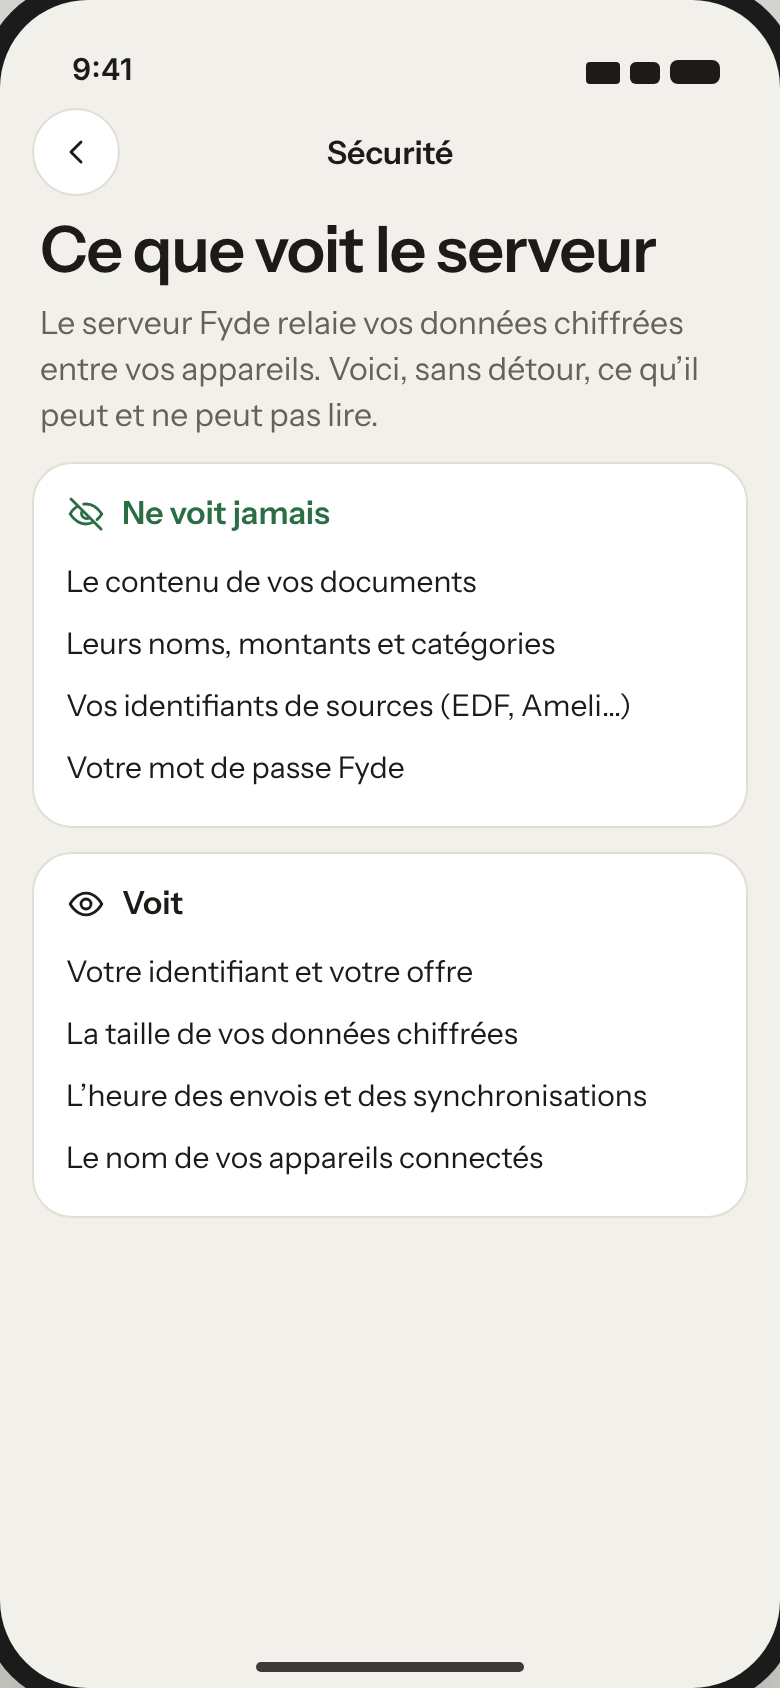
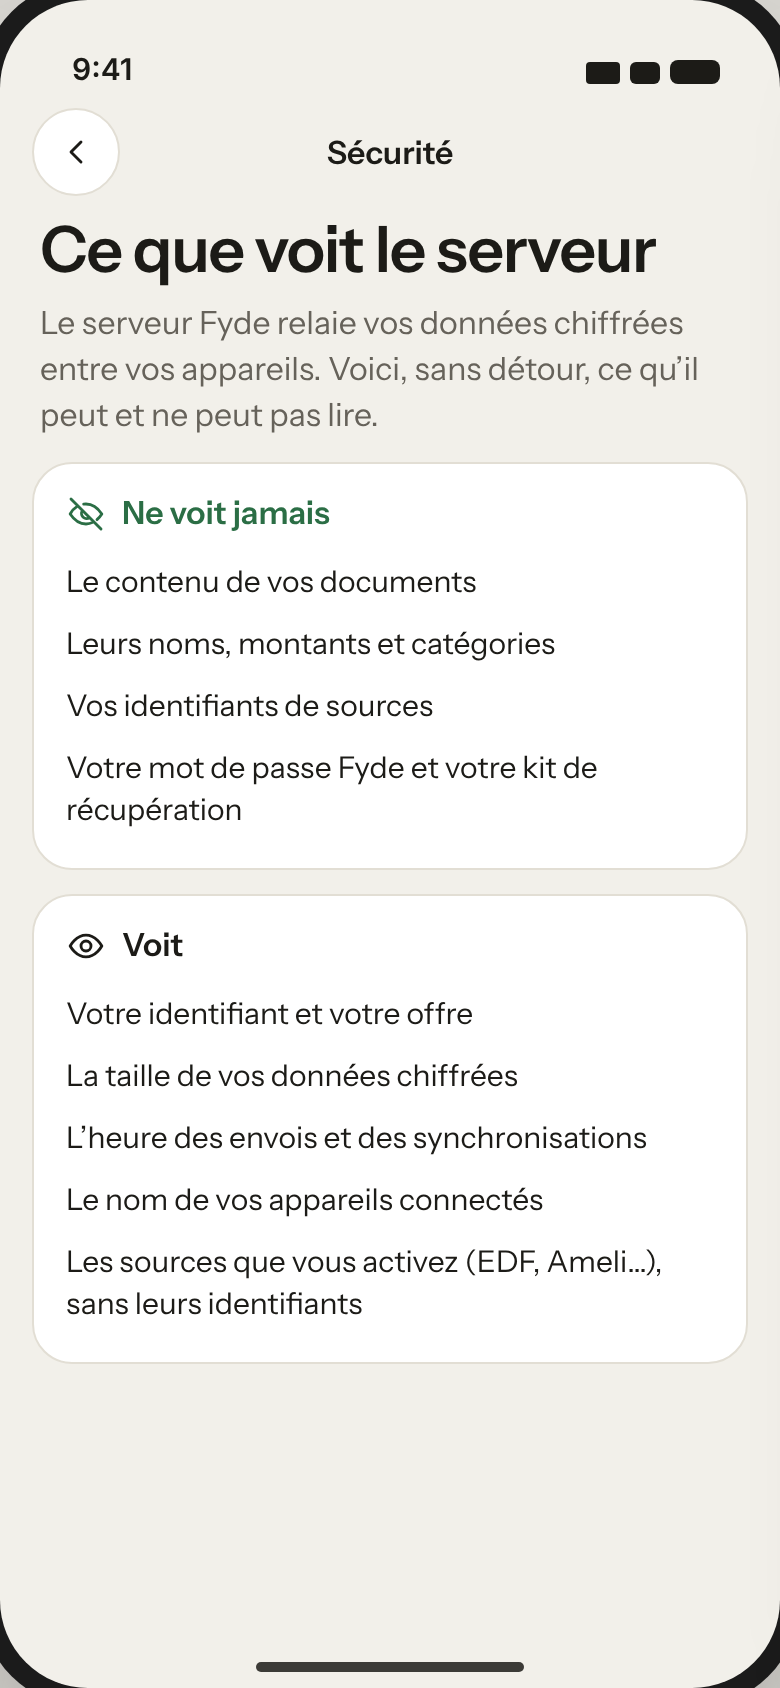
Tell the user the server knows which sources they enable
M3 listed source credentials under "Ne voit jamais" and said nothing of
the sources themselves. The credentials do stay encrypted (installScript
is an encrypted changelog event), but enabling and disabling a script go
to the server by its id, and fetchScript and fetchIcon ask for it by id
too, so the server knows a user has, say, Ameli or a bank. M3 now lists
"les sources que vous activez, sans leurs identifiants" under "Voit",
adds the recovery kit under "Ne voit jamais", and M2's row and the spec
follow. The spec's rule: anything sent in clear is listed under Voit.

Claude-Session: https://claude.ai/code/session_01NXG1oymEkKvPrzTrPTtgGc

diff --git a/design/assets/mockups/core.html b/design/assets/mockups/core.html
@@ -275,7 +275,7 @@
   <div class="trow"><svg class="ic" style="color:var(--warn)"><use href="#i-key"/></svg><div class="grow"><p style="font-weight:600">Kit de récupération</p><p style="font-size:13px;color:var(--muted)">À créer — votre seule issue si vous oubliez le mot de passe</p></div><svg class="ic" style="color:var(--muted)"><use href="#i-chev-r"/></svg></div>
   <div class="trow"><svg class="ic" style="color:var(--primary)"><use href="#i-pencil"/></svg><div class="grow"><p style="font-weight:600">Changer le mot de passe</p><p style="font-size:13px;color:var(--muted)">Vos appareils restent connectés</p></div><svg class="ic" style="color:var(--muted)"><use href="#i-chev-r"/></svg></div>
   <div class="trow"><svg class="ic" style="color:var(--primary)"><use href="#i-check-c"/></svg><div class="grow"><p style="font-weight:600">Vérifier mon mot de passe</p><p style="font-size:13px;color:var(--muted)">Dernière vérification : jamais</p></div><svg class="ic" style="color:var(--muted)"><use href="#i-chev-r"/></svg></div>
-  <div class="trow"><svg class="ic" style="color:var(--primary)"><use href="#i-server"/></svg><div class="grow"><p style="font-weight:600">Ce que voit le serveur</p><p style="font-size:13px;color:var(--muted)">Tailles, dates d’envoi, nombre d’appareils</p></div><svg class="ic" style="color:var(--muted)"><use href="#i-chev-r"/></svg></div>
+  <div class="trow"><svg class="ic" style="color:var(--primary)"><use href="#i-server"/></svg><div class="grow"><p style="font-weight:600">Ce que voit le serveur</p><p style="font-size:13px;color:var(--muted)">Sources activées, tailles, dates d’envoi</p></div><svg class="ic" style="color:var(--muted)"><use href="#i-chev-r"/></svg></div>
  </div>
  <div class="homebar"></div>
 </div></div>
@@ -297,7 +297,7 @@
   <div class="trow"><svg class="ic" style="color:var(--warn)"><use href="#i-key"/></svg><div class="grow"><p style="font-weight:600">Kit de récupération</p><p style="font-size:13px;color:var(--muted)">À créer — votre seule issue si vous oubliez le mot de passe</p></div><svg class="ic" style="color:var(--muted)"><use href="#i-chev-r"/></svg></div>
   <div class="trow"><svg class="ic" style="color:var(--primary)"><use href="#i-pencil"/></svg><div class="grow"><p style="font-weight:600">Changer le mot de passe</p><p style="font-size:13px;color:var(--muted)">Vos appareils restent connectés</p></div><svg class="ic" style="color:var(--muted)"><use href="#i-chev-r"/></svg></div>
   <div class="trow"><svg class="ic" style="color:var(--primary)"><use href="#i-check-c"/></svg><div class="grow"><p style="font-weight:600">Vérifier mon mot de passe</p><p style="font-size:13px;color:var(--muted)">Dernière vérification : jamais</p></div><svg class="ic" style="color:var(--muted)"><use href="#i-chev-r"/></svg></div>
-  <div class="trow"><svg class="ic" style="color:var(--primary)"><use href="#i-server"/></svg><div class="grow"><p style="font-weight:600">Ce que voit le serveur</p><p style="font-size:13px;color:var(--muted)">Tailles, dates d’envoi, nombre d’appareils</p></div><svg class="ic" style="color:var(--muted)"><use href="#i-chev-r"/></svg></div>
+  <div class="trow"><svg class="ic" style="color:var(--primary)"><use href="#i-server"/></svg><div class="grow"><p style="font-weight:600">Ce que voit le serveur</p><p style="font-size:13px;color:var(--muted)">Sources activées, tailles, dates d’envoi</p></div><svg class="ic" style="color:var(--muted)"><use href="#i-chev-r"/></svg></div>
  </div>
  <div class="homebar"></div>
 </div></div>

diff --git a/design/assets/mockups/desktop.html b/design/assets/mockups/desktop.html
@@ -205,7 +205,7 @@
     <div class="it" style="min-height:64px"><svg class="ic" style="color:var(--warn)"><use href="#i-key"/></svg><div class="grow"><p class="t1">Kit de récupération</p><p class="t2">À créer : votre seule issue si vous oubliez le mot de passe</p></div><button class="pbtn f sm">Créer le kit</button></div>
     <div class="it" style="min-height:64px"><svg class="ic" style="color:var(--primary)"><use href="#i-pencil"/></svg><div class="grow"><p class="t1">Changer le mot de passe</p><p class="t2">Vos appareils restent connectés</p></div><svg class="ic ch"><use href="#i-chev-r"/></svg></div>
     <div class="it" style="min-height:64px"><svg class="ic" style="color:var(--primary)"><use href="#i-check-c"/></svg><div class="grow"><p class="t1">Vérifier mon mot de passe</p><p class="t2">Dernière vérification : jamais</p></div><svg class="ic ch"><use href="#i-chev-r"/></svg></div>
-    <div class="it" style="min-height:64px"><svg class="ic" style="color:var(--primary)"><use href="#i-server"/></svg><div class="grow"><p class="t1">Ce que voit le serveur</p><p class="t2">Tailles, dates d’envoi, nombre d’appareils</p></div><svg class="ic ch"><use href="#i-chev-r"/></svg></div>
+    <div class="it" style="min-height:64px"><svg class="ic" style="color:var(--primary)"><use href="#i-server"/></svg><div class="grow"><p class="t1">Ce que voit le serveur</p><p class="t2">Sources activées, tailles, dates d’envoi</p></div><svg class="ic ch"><use href="#i-chev-r"/></svg></div>
    </div>
   </div>
  </div>

diff --git a/design/assets/mockups/sources-account.html b/design/assets/mockups/sources-account.html
@@ -265,9 +265,9 @@
  <p class="h1 pad">Ce que voit le serveur</p>
  <p class="body pad" style="color:var(--muted);margin-top:6px">Le serveur Fyde relaie vos données chiffrées entre vos appareils. Voici, sans détour, ce qu’il peut et ne peut pas lire.</p>
  <div class="card"><p class="t1 row" style="gap:8px;color:var(--ok)"><svg class="ic"><use href="#i-eye-off"/></svg>Ne voit jamais</p>
-  <ul class="ul"><li>Le contenu de vos documents</li><li>Leurs noms, montants et catégories</li><li>Vos identifiants de sources (EDF, Ameli…)</li><li>Votre mot de passe Fyde</li></ul></div>
+  <ul class="ul"><li>Le contenu de vos documents</li><li>Leurs noms, montants et catégories</li><li>Vos identifiants de sources</li><li>Votre mot de passe Fyde et votre kit de récupération</li></ul></div>
  <div class="card"><p class="t1 row" style="gap:8px"><svg class="ic"><use href="#i-eye"/></svg>Voit</p>
-  <ul class="ul"><li>Votre identifiant et votre offre</li><li>La taille de vos données chiffrées</li><li>L’heure des envois et des synchronisations</li><li>Le nom de vos appareils connectés</li></ul></div>
+  <ul class="ul"><li>Votre identifiant et votre offre</li><li>La taille de vos données chiffrées</li><li>L’heure des envois et des synchronisations</li><li>Le nom de vos appareils connectés</li><li>Les sources que vous activez (EDF, Ameli…), sans leurs identifiants</li></ul></div>
  <!--HB-->
 </div></div>
 

diff --git a/design/design-system.md b/design/design-system.md
@@ -510,7 +510,7 @@ How the account screens connect (source: `assets/mockups/map-moi.html`, rendered
 | M1 | Moi | Profile, seal card, Sécurité (pill "Kit à créer"), Appareils, Offre et usage, Apparence et langue, Mes données, Aide, Se déconnecter | — |
 | M2 | Sécurité | Seal hero, device tiles with sync dot, Kit de récupération (its date from `recoveryKeyStatus`, or "À créer"), Changer le mot de passe, Vérifier mon mot de passe, Ce que voit le serveur | — |
 | M2b | Sécurité (sombre) | M2 in the dark theme | Dark reference for the seal hero |
-| M3 | Ce que voit le serveur | "Ne voit jamais" / "Voit" lists | Keep in step with the wire format |
+| M3 | Ce que voit le serveur | "Ne voit jamais": document contents; their names, amounts and categories; source credentials; the Fyde password and the recovery kit. "Voit": username and plan; encrypted size; when things are sent and synced; device names; which sources are enabled (`enableScript` goes to the server by script id), never their credentials | Keep in step with the wire format: anything sent in clear (an id, a count, a time) is listed under "Voit" |
 | M4 | Vérifier mon mot de passe | Local check, next reminder in 3 months | Wrong → link to the recovery kit |
 | M5 | Appareils | Each device with last sync or "Pas vu depuis … · n en attente"; Retirer; Renommer on this device | The current device can't be removed here (Se déconnecter, M8) |
 | M6 | Offre et usage | Plan; meters for storage, devices, active sources | 100% → warning, over → error; Voir les offres → M9 |
